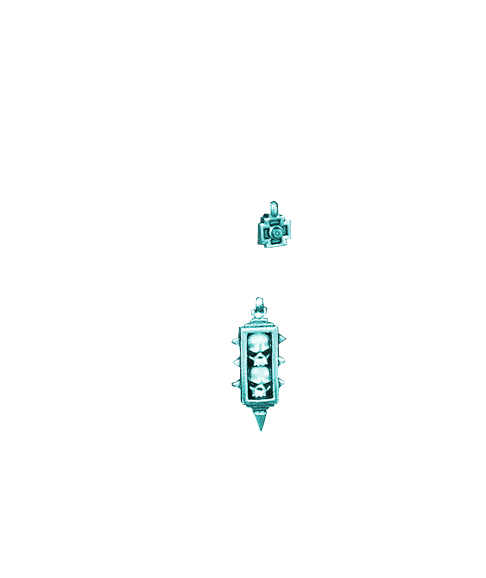
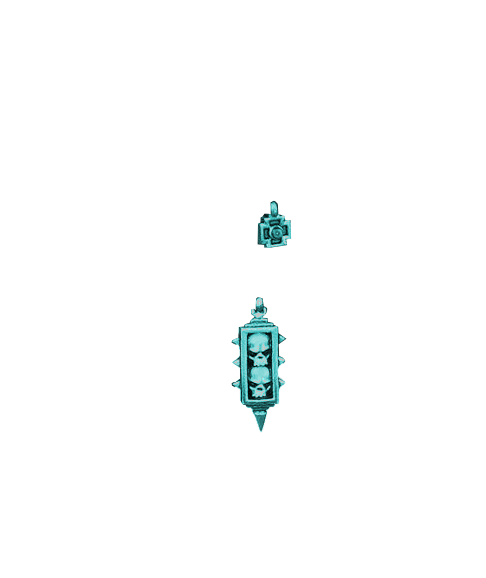
Rework Colours

Changed region(s): [[0.463, 0.4983, 0.5864, 0.7474], [0.5247, 0.3426, 0.6173, 0.436]]

diff --git a/src/layouts/chaos/index.js b/src/layouts/chaos/index.js
@@ -31,7 +31,8 @@ const colors = {
   wraithbone: 'hue-rotate(230deg) saturate(30%) brightness(160%)',
   morghast: 'hue-rotate(230deg) saturate(60%) brightness(120%)',
   fang: 'hue-rotate(35deg) saturate(60%) brightness(70%)',
-  retributor: 'hue-rotate(230deg) saturate(120%) brightness(150%)',
+  retributor:
+    'hue-rotate(225deg) saturate(120%) brightness(120%) contrast(120%)',
   averland: 'hue-rotate(220deg) saturate(120%) brightness(150%)',
   leadbelcher: 'hue-rotate(0deg) saturate(0%) brightness(90%) contrast(180%)',
   greyknights: 'hue-rotate(40deg) saturate(10%) brightness(90%) contrast(200%)',

diff --git a/public/index.html b/public/index.html
@@ -41,6 +41,23 @@
       Learn how to configure a non-root public URL by running `npm run build`.
     -->
     <title>DoodleMeeple</title>
+    <script>
+      {/*}
+  function displayMessage (evt) {
+	var message;
+alert(evt.data);
+	
+}
+
+if (window.addEventListener) {
+	// For standards-compliant web browsers
+	window.addEventListener("message", displayMessage, false);
+}
+else {
+	window.attachEvent("onmessage", displayMessage);
+}
+*/}
+    </script>
   </head>
   <body style="margin :0; background:#222">
     <noscript>You need to enable JavaScript to run this app.</noscript>
